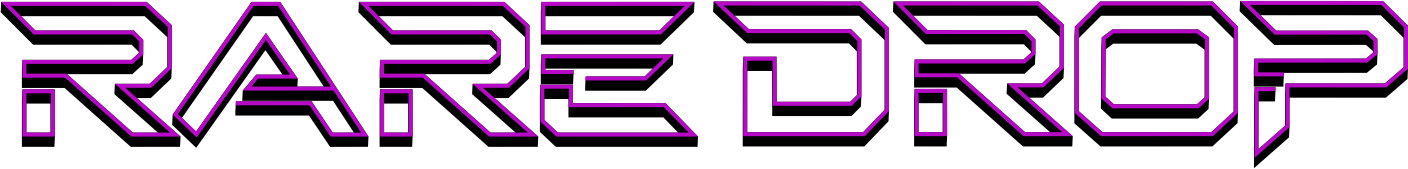
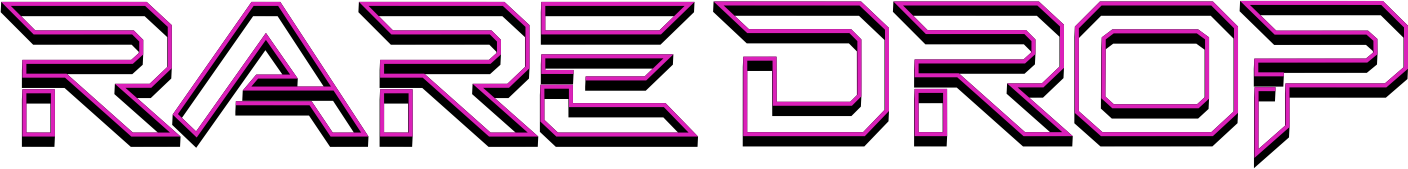
ajuste roxao

diff --git a/index.html b/index.html
@@ -126,7 +126,7 @@
     to   { opacity: 1; transform: scale(1)  rotateY(0deg); }
   }
   @keyframes logoPulse {
-    0%,100% { filter: drop-shadow(0 0 40px rgba(168,85,247,.8)) drop-shadow(0 0 90px rgba(255,107,157,.45)); }
+    0%,100% { filter: drop-shadow(0 0 40px rgba(169, 85, 247, 0.50)) drop-shadow(0 0 90px rgba(255,107,157,.50)); }
     50%     { filter: drop-shadow(0 0 64px rgba(168,85,247,1))   drop-shadow(0 0 120px rgba(255,107,157,.7)); }
   }
   .hero-badge {